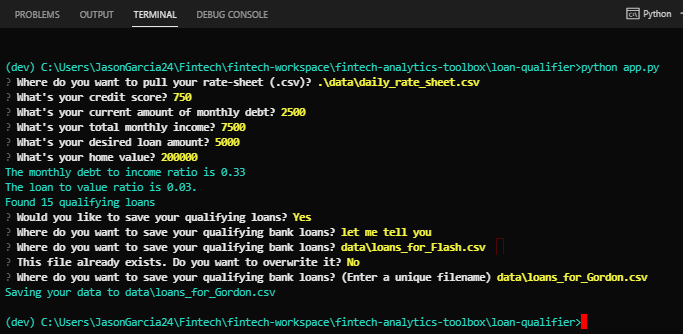
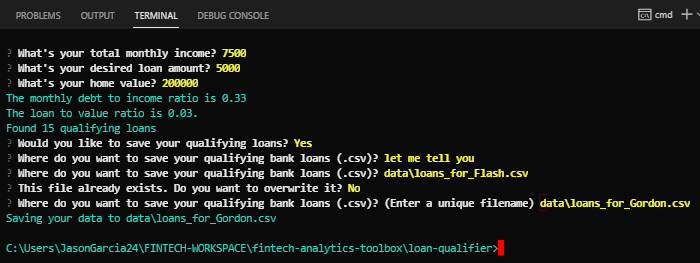
Housekeeping. Updated README.md, images in img folder, and tree.txt

Changed region(s): [[0.0, 0.1825, 1.0, 1.0], [0.0, 0.0304, 0.3997, 0.1217], [0.8917, 0.0, 1.0, 0.0913]]

diff --git a/loan-qualifier/app.py b/loan-qualifier/app.py
@@ -207,7 +207,7 @@ def save_qualifying_loans(qualifying_loans):
         {
             "type":        "rawselect",
             "name":        "save_where",
-            "message":     "Where do you want to save your qualifying bank loans?",
+            "message":     "Where do you want to save your qualifying bank loans (.csv)?",
             "choices":     choices,
             "instruction": "(select '1' for default)",
             "when":        lambda x: x["save_question"],
@@ -216,7 +216,7 @@ def save_qualifying_loans(qualifying_loans):
             "type":     "path",
             # Intentionally overwrites result from previous question.
             "name":     "save_where",
-            "message":  "Where do you want to save your qualifying bank loans?",
+            "message":  "Where do you want to save your qualifying bank loans (.csv)?",
             "when"   :  lambda x: True if x["save_question"] and x["save_where"] == choices[-1] else False,
             "validate": csv_ext_validator,
         },
@@ -232,7 +232,7 @@ def save_qualifying_loans(qualifying_loans):
         {
             "type":     "path",
             "name":     "save_where",
-            "message":  "Where do you want to save your qualifying bank loans? (Enter a unique filename)",
+            "message":  "Where do you want to save your qualifying bank loans (.csv)? (Enter a unique filename)",
             "validate": csv_no_overwrite_validator,
         },
     ]

diff --git a/loan-qualifier/README.md b/loan-qualifier/README.md
@@ -1,6 +1,6 @@
 # Here is the loan-qualifier project!<a id="Top-of-Page">
 ***
-## <a id="Contents">Cotents:</a>
+## <a id="Contents">Cotents</a>
 [Project Description](#Project-Description)<br>
 [Technologies](#Technologies)<br>
 [Installation Guide](#Installation-Guide)<br>
@@ -13,16 +13,45 @@
 This project provides automated calculations to identify qualifying loans.
 
 #### A summary of what's under the hood:
-We start with some fundamental calculations on a list of prices for given loans.
- - Using the loan qualifier command-line interface (CLI), when the qualifier is ran, the tool will prompt the user to save the results as a CSV file.
- - Using the list of qualifying loans, when prompted to save the results, the user can opt out of saving the file.
- - Using the list of qualifying loans, when the user chooses to save the loans, the tool will prompt for a file path to save the file.
- - Using the loan qualifier CLI, when the user chooses to save the loans, the tool will save the results as a CSV file.
+Using the loan qualifier command-line interface (CLI), this tool queries for necessary financial information to best match qualifying loans. Once the requested information has been collected, the tool will generate a list of qualifying loans based off of the provided financials. Via the CLI, the user can then perform their preferred action with the results. The available actions are summarized below:
+ - When the user chooses to save the loans, the tool will prompt for a file path to save the list.
+ - When prompted to save the results, the user can opt out of saving the file.
+ - When the user chooses to save the loans, the tool will save the results as a CSV file.
+ - If the user enters a file name for an existing file, the CLI will notify the user and ask if they want to overwrite it.
+     - If YES, the previous file is overwritten.
+     - If NO, the user must enter a unique file name from here on out.
  - If there are no qualifying loans, the qualifier program will notify the user and exit, given there is nothing to save.
+    
+#### Provided financials:
+In order to best determine the suitable loans, the tool will query several financials from the user via the CLI. These financials include:
+1. Current credit score
+2. Total amount of monthly debt
+3. Total monthly income
+4. Desired loan amount
+5. Current home value
+
+#### Derived financials:
+We then start with some fundamental calculations on the provided financials, which include:
+1. Monthly debt to income ratio (DTI)
+2. Loan to value ratio (LTV)
+
+#### Methods for creating list of qualifying loans:
+Given this combination of provided and derived financials, we then determine the most suitable loans available by filtering on the following:
+1. Available loans given the requested amount
+2. Available loans given the provided credit score
+3. Available loans given the derived DTI
+4. Available loans given the derived LTV
+
+Using the above tools for identifying suitable loans, a list of loans meeting all conditions is then provided!
 
 #### Unit testing:
-Unit testing is performed on all modules contained within the loan-qualifier projectTo perform unit testing, at the root path run `pytest tests` or simply `pytest`.<br>
+Unit testing is performed on all modules contained within the loan-qualifier project.<br><br>
+To perform unit testing, at the root path run `pytest tests` or simply `pytest`. Below is the current status of running this checkout.<br>
+    
+<center><img src="img/pytest_unit_test_20210703_debad13.png" title="PyTes results"/></center>
+
 #### Project layout:
+The layout of essentials for this project is show below.
 <p><a href="tree.txt"><img src="img/project_tree.png" title="loan-qualifier project tree"></a></p>
 
 ***
@@ -30,7 +59,7 @@ Unit testing is performed on all modules contained within the loan-qualifier pro
 <a href="https://docs.python.org/release/3.7.10/"><img src="https://img.shields.io/badge/python-3.7.10%2B-green">
 <a href="https://jupyter-notebook.readthedocs.io/en/stable/"><img src="https://img.shields.io/badge/jupyter--notebook-6.4.0-blue"></a>
 <a href="https://github.com/google/python-fire"><img src="https://img.shields.io/badge/fire-0.4.0-red"></a>
-<a href="https://github.com/tmbo/questionary"><img src="https://img.shields.io/badge/Questionary-1.9.0-red"></a>
+<a href="https://github.com/tmbo/questionary"><img src="https://img.shields.io/badge/questionary-1.9.0-red"></a>
 <a href="https://docs.pytest.org/en/latest/"><img src="https://img.shields.io/badge/PyTest-0.0.0-orange"></a><br>
 <a href="requirements.txt" title="requirements.txt">Requirements List</a>
 ***
@@ -41,11 +70,14 @@ Unit testing is performed on all modules contained within the loan-qualifier pro
 
 ***
 ## Usage<a id="Usage">
-Run loan-analyzer with `python app.py`. No input variables are required in calling loan-qualifier app, however user CLI inputs are required. The below image displays the expected terminal prompts with user inputs:<br>
-<center><img src="img/appy_terminal_run_input.png" title="Terminal results of loan-qualifier.py" /></center><br>
+Run loan-analyzer with `python app.py`. No input variables are required in calling loan-qualifier app, however user CLI inputs are required. The below image displays the expected terminal prompts with user inputs.<br>
+<center><img src="img/appy_terminal_run_input.png" title="Example terminal results of loan-qualifier.py" /></center><br>
 
-The expected .csv output is shown below:<br>
-<center><img src="img/appy_terminal_run_output.png" title="CSV results of loan-qualifier.py" /></center>
+The expected .csv output is shown below.<br>
+<center><img src="img/appy_terminal_run_output.png" title="Example CSV results of loan-qualifier.py" /></center><br> 
+
+At any CLI query, the user can choose to exit the tool using <code>Ctrl + C</code>.
+<center><img src="img/appy_terminal_run_input_quit.png" title="Example terminal results of loan-qualifier.py - Cancelled by user" /></center>
 
 ***
 ## Contributors<a id="Contributors">
